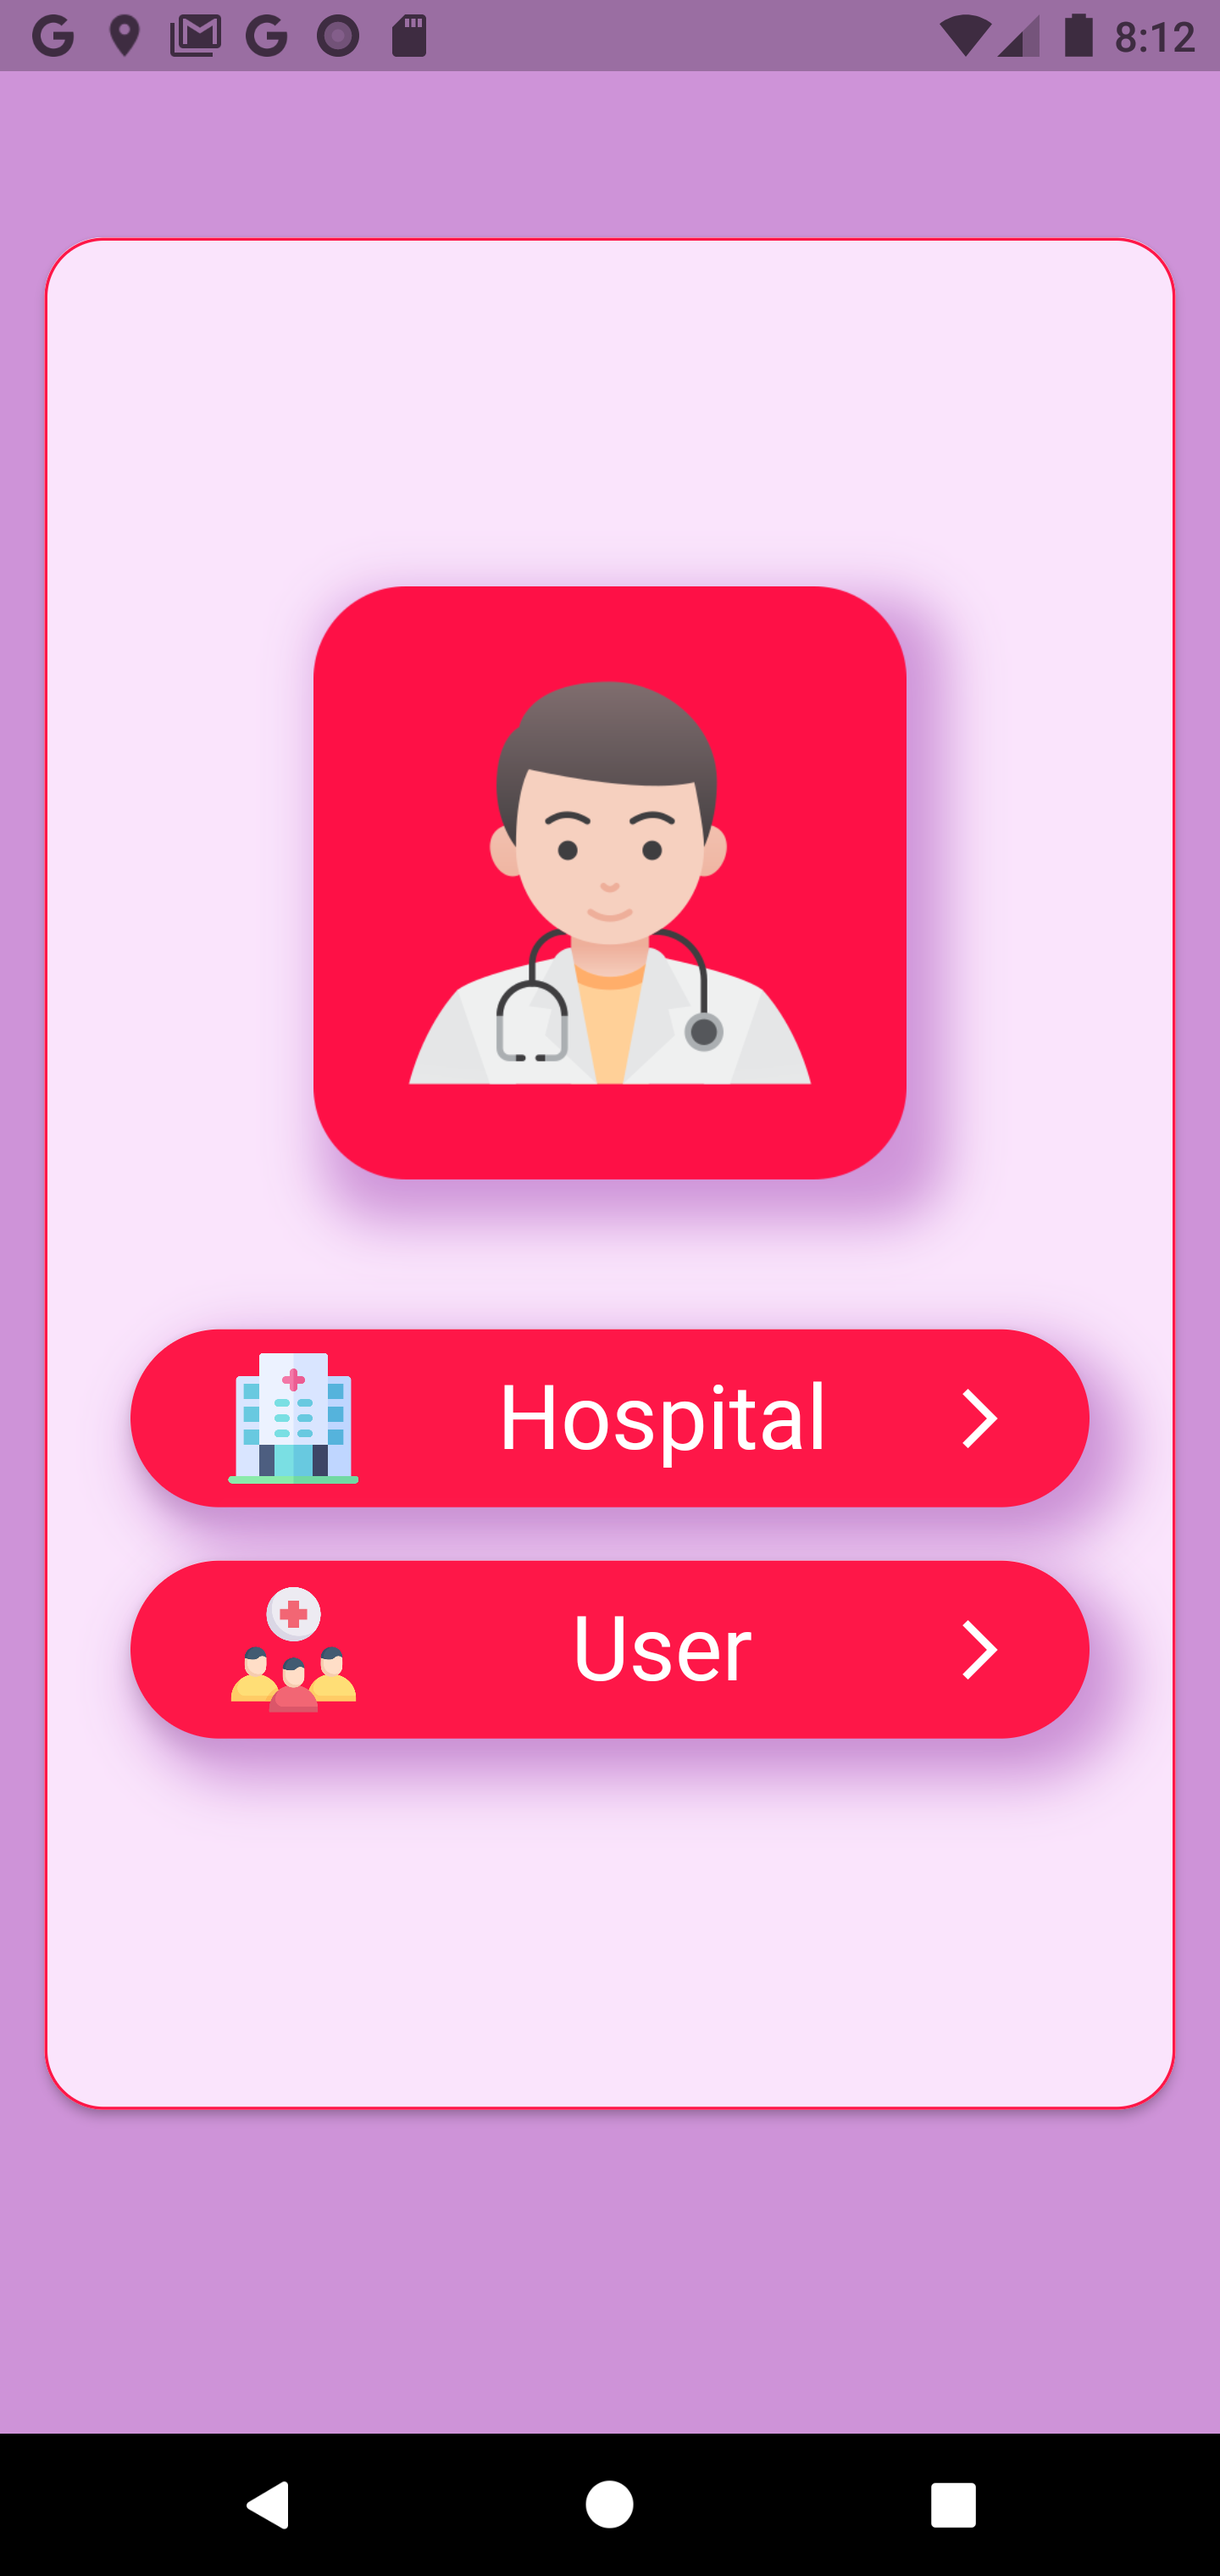
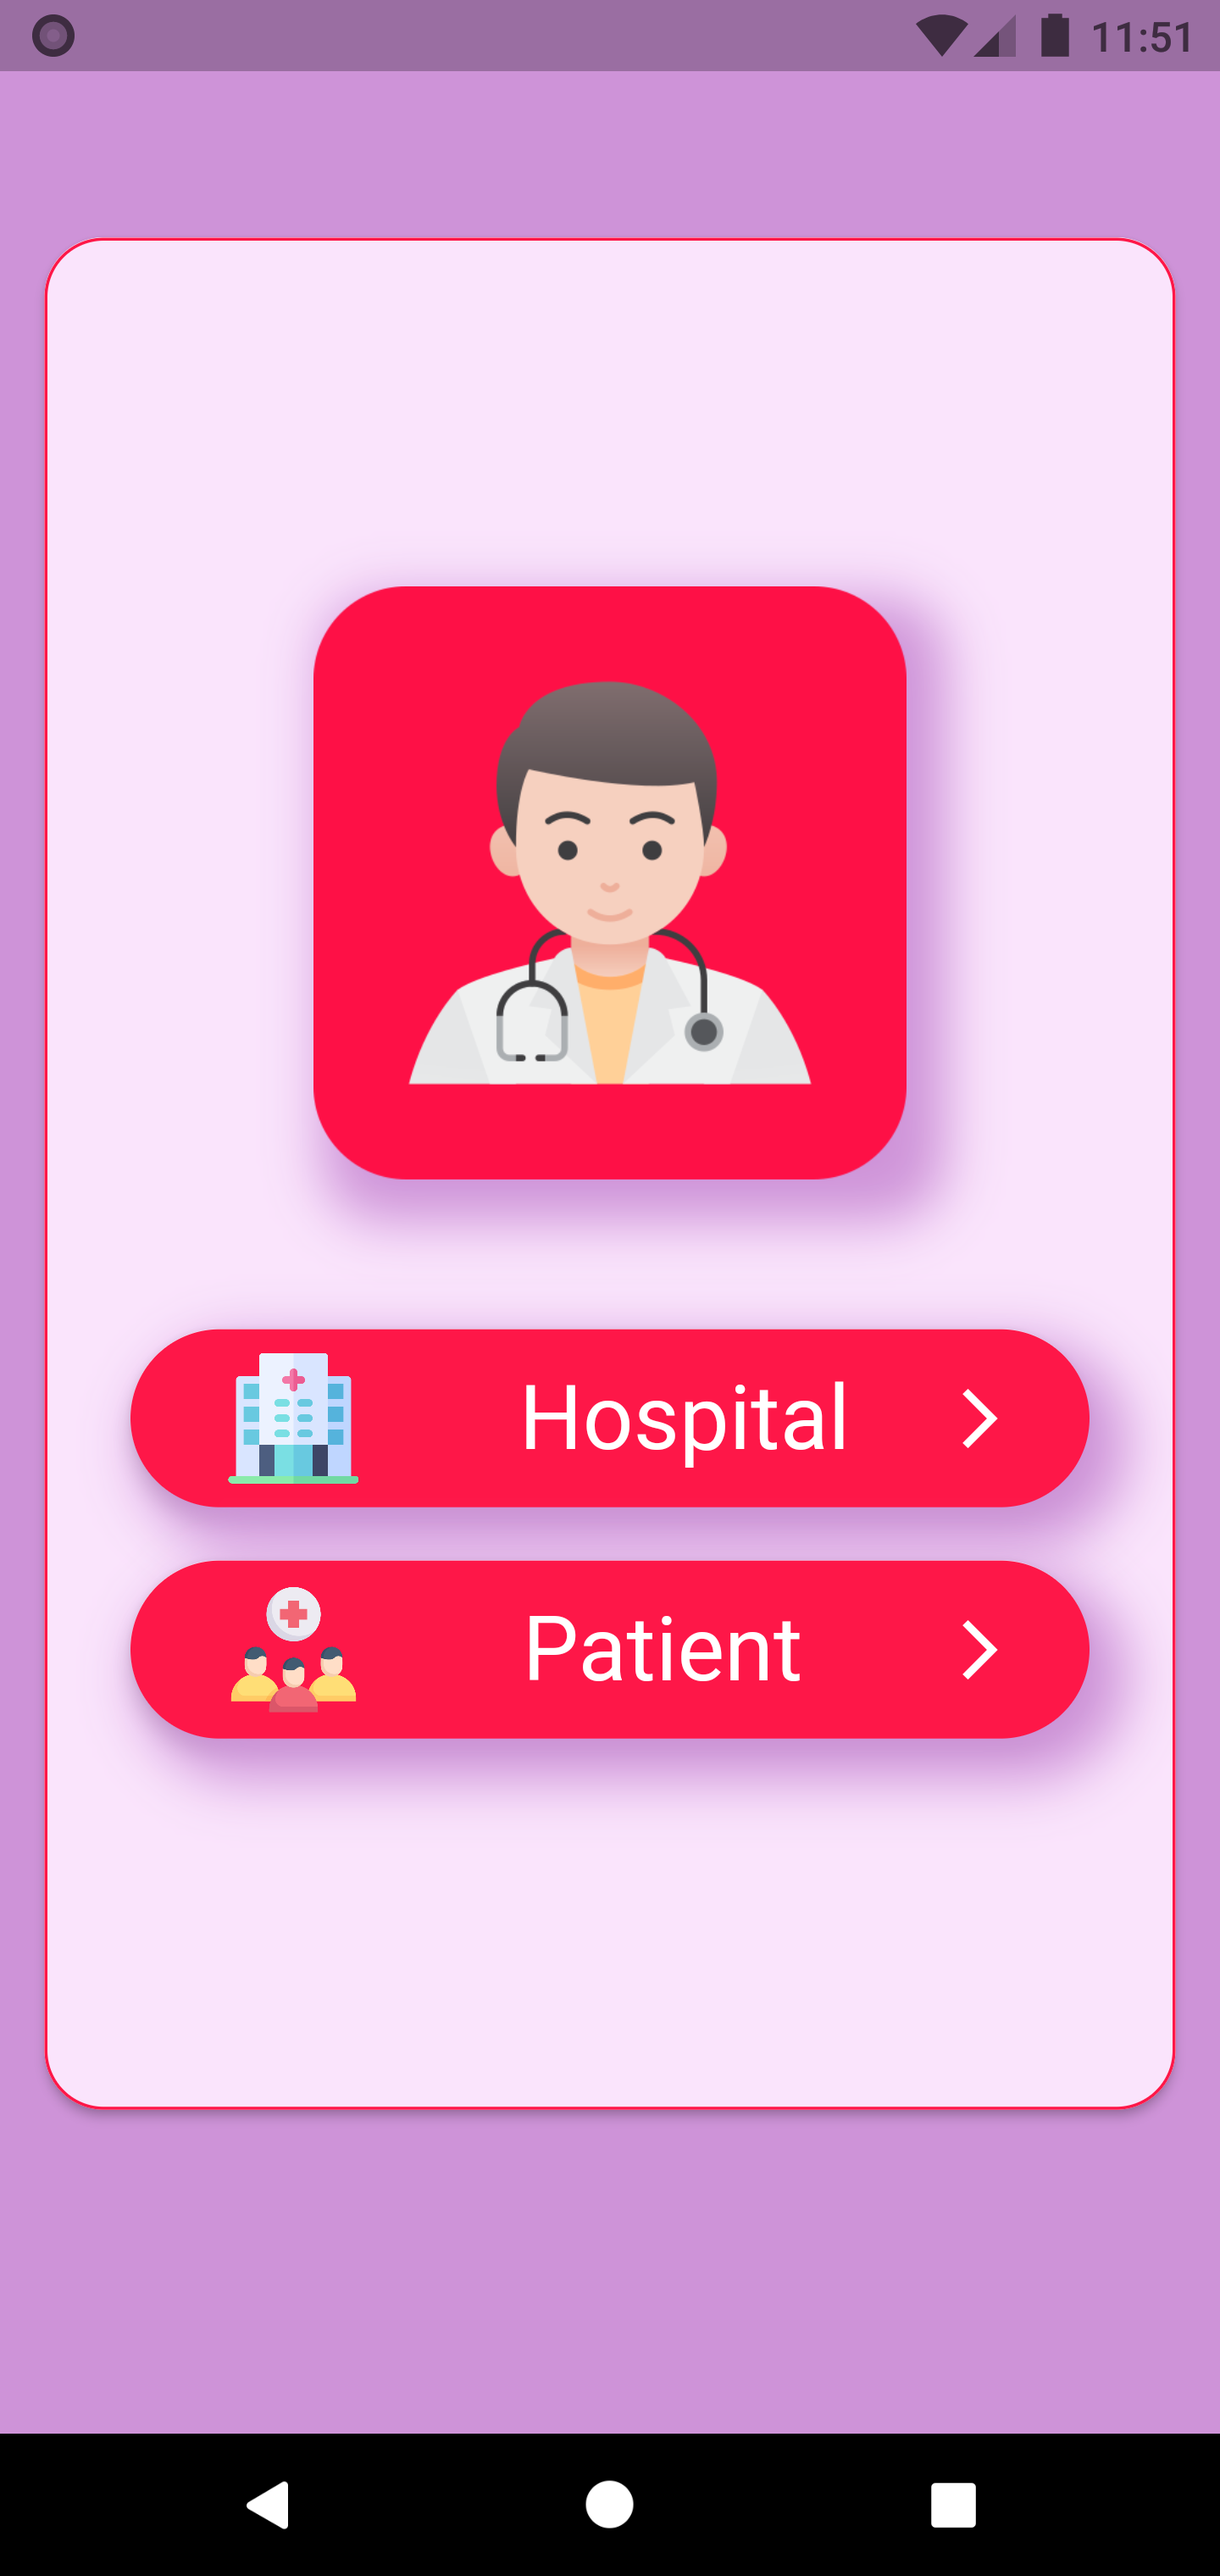
Screenshots

diff --git a/lib/pages/app_home_page.dart b/lib/pages/app_home_page.dart
@@ -123,7 +123,7 @@ class _AppHomePageState extends State<AppHomePage> {
                                       ),
                                     ),
                                     Text(
-                                          "Hospital",
+                                          "  Hospital",
                                           style: TextStyle(
                                               color: Colors.white,
                                               fontSize: 30
@@ -188,7 +188,7 @@ class _AppHomePageState extends State<AppHomePage> {
                                       ),
                                     ),
                                     Text(
-                                          "User",
+                                          "Patient",
                                           style: TextStyle(
                                               color: Colors.white,
                                               fontSize: 30
